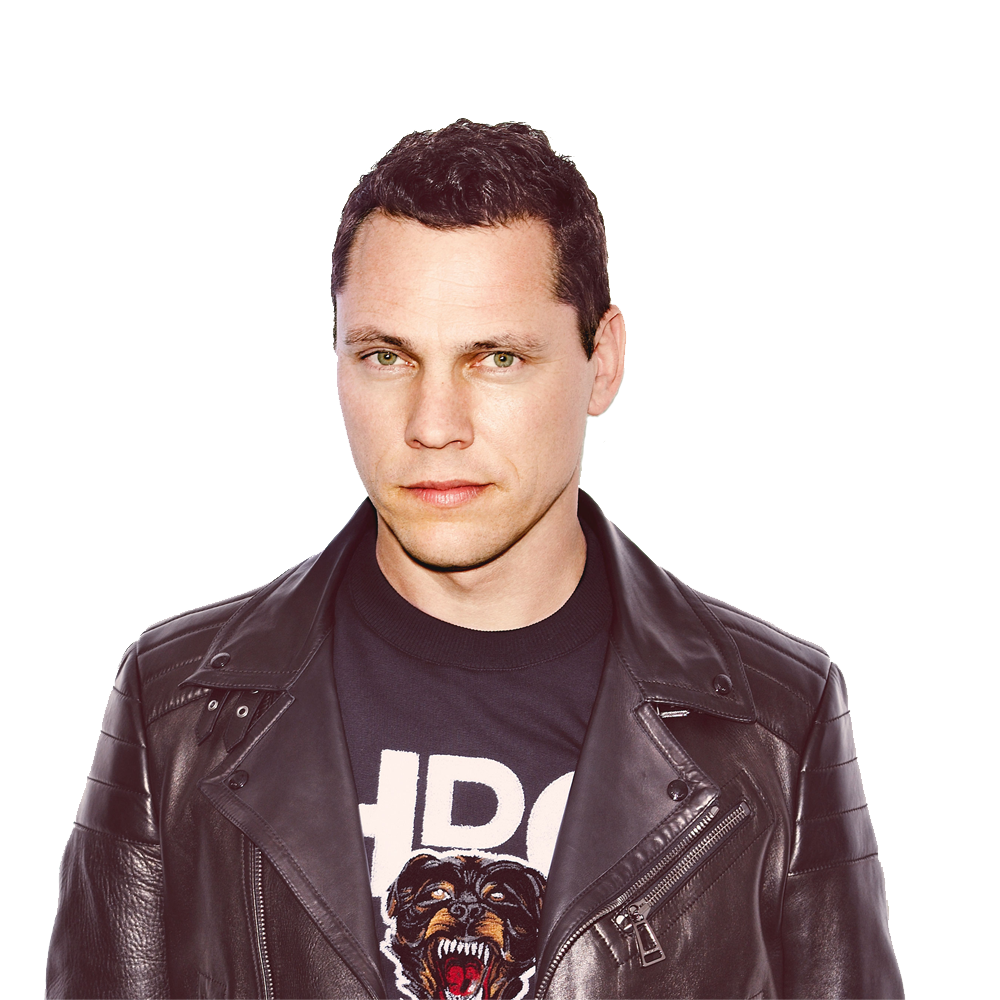
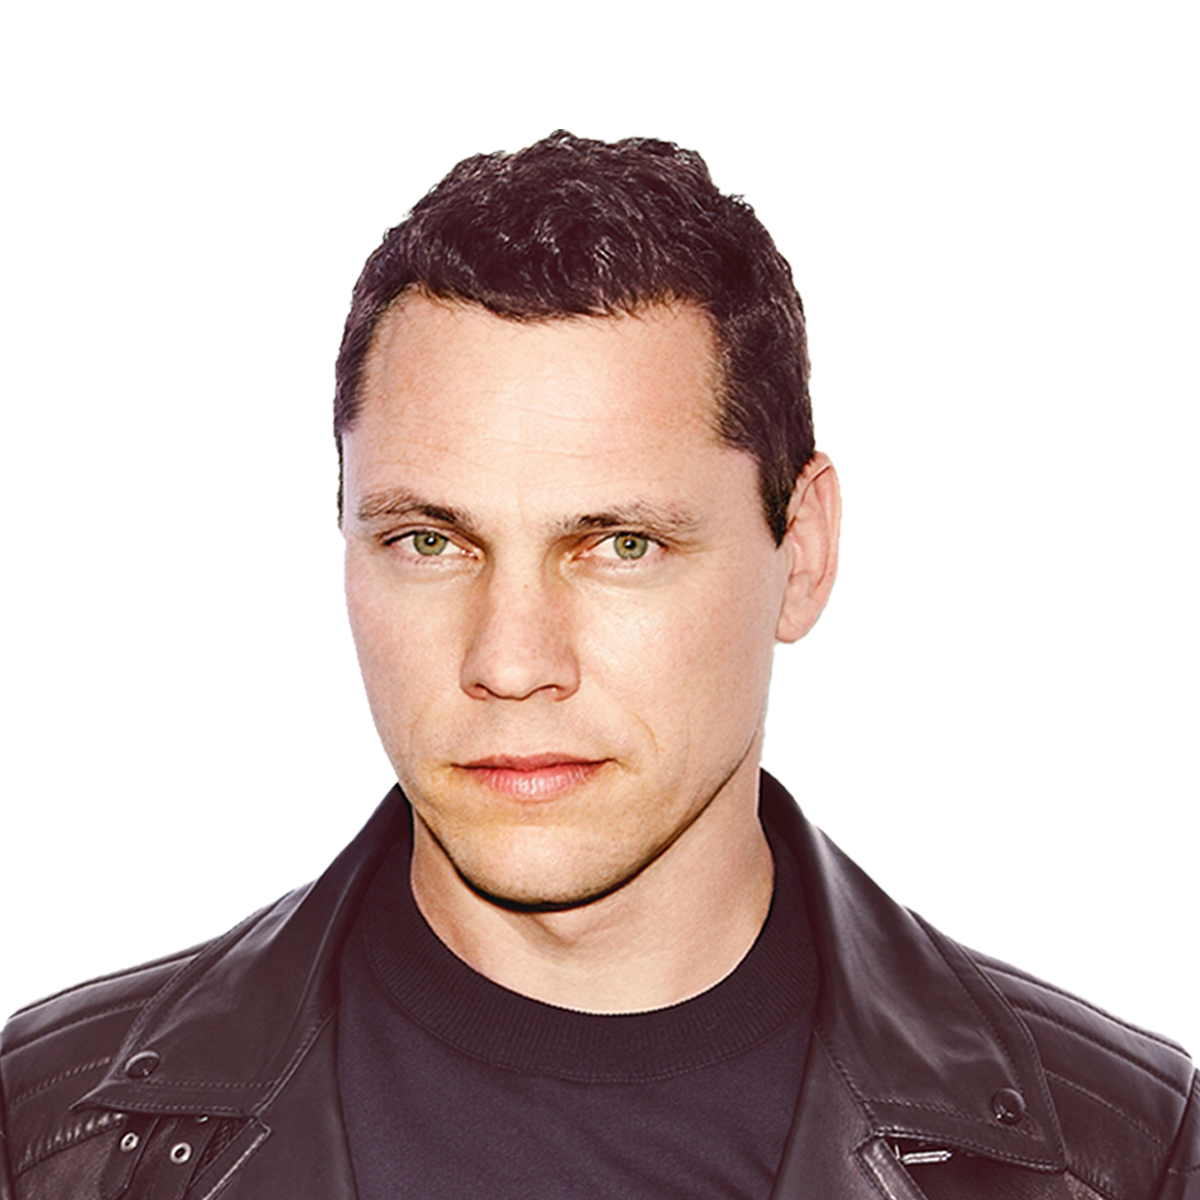
dinamic profile images
artist view dinamic images
artist_detail dinamic images

diff --git a/music_react/src/component/artist_detail/ArtistDetail.js b/music_react/src/component/artist_detail/ArtistDetail.js
@@ -12,6 +12,7 @@ import Table from "react-bootstrap/Table";
 import { BsClockFill, BsCircleFill } from "react-icons/bs";
 
 import AviciiImg from '../../assets/artistPictures/avicii_PNG.png';
+import DefaultImg from '../../assets/artistPictures/default.png';
  
 const Artist_detail = ({artistSongs, get_artist_songs}) => {
     const { artistName } = useParams(); //hook para recoger params
@@ -19,11 +20,20 @@ const Artist_detail = ({artistSongs, get_artist_songs}) => {
     const [totalDuration, setTotalDuration] = useState("0 hr 0 min");//initial state value
     const [backOpacity, setBackOpacity] = useState(0);
     const [backSize, setBackSize] = useState("60%");
-    //const [imgBack, setImageBack] = useState()
+    const [profileIMG, setProfileIMG] = useState();
 
+    function loadImage () {//set img dinamiclly
+        try{
+           const images = require.context('../../assets/artistPictures', true);
+           setProfileIMG(images('./' +artistName.toLowerCase().replace(/\s/g, '_')+'_PNG.png'));
+       }catch{
+           setProfileIMG(DefaultImg);
+       } 
+   };
+    
     useEffect( () => {
         get_artist_songs(artistName);
-        //setImageBack("url("+"../../assets/artistPictures/" + artistName.toLowerCase().replace(/\s/g, '_') + "_PNG.png" + ")");
+        loadImage();
     }, [])
 
     useEffect( () => {
@@ -68,7 +78,7 @@ const Artist_detail = ({artistSongs, get_artist_songs}) => {
     
     return (
         <div className="gradientBack"> 
-            <Row id="imgBackArtistDetail" style={{backgroundSize: backSize, backgroundImage:`url(${(AviciiImg)})`}}>
+            <Row id="imgBackArtistDetail" style={{backgroundSize: backSize, backgroundImage:`url(${(profileIMG)})`}}>
                 <div style={{paddingLeft:"10%", background: backOpacity}}>
                     <h1 style={{paddingTop:'2em'}}>{artistName}</h1>
                     <div>

diff --git a/music_react/src/component/artists/artist_item/ArtistItem.js b/music_react/src/component/artists/artist_item/ArtistItem.js
@@ -1,20 +1,36 @@
-import React, { Component } from 'react';
+import React, { Component, useEffect, useState } from 'react';
 import { connect } from 'react-redux';
 
 import Image from 'react-bootstrap/Image';
 
 import TiestoImg from '../../../assets/artistPictures/tiesto.jpg';
+import DefaultImg from '../../../assets/artistPictures/default.png';
 import backVolumen from '../../../assets/artists/backVolumen.png';
 
 import {Link} from 'react-router-dom';
 
 const Artistitem = (props) => {
+    const [profileIMG, setProfileIMG] = useState();
+
+    useEffect( () => {
+        loadImage();
+
+    }, [])
+
+    function loadImage () {//set img dinamiclly
+         try{
+            const images = require.context('../../../assets/artistPictures', true);
+            setProfileIMG(images('./' +props.nombre.toLowerCase().replace(/\s/g, '_')+'.jpg'));
+        }catch{
+            setProfileIMG(DefaultImg);
+        } 
+      };
 
     return (
         <div className="resizeArtistItem">
             <div className="centerElementsX artistItemImgContainer" 
             style={{backgroundImage:`url(${backVolumen})`}}>
-                <Image src={TiestoImg} alt={props.nombre} />
+                <Image src={profileIMG} alt={props.nombre} />
             </div>
             <Link to={{
                     pathname:'/artist_detail/'+props.nombre, 

diff --git a/music_react/src/component/artists/Artists.js b/music_react/src/component/artists/Artists.js
@@ -9,7 +9,7 @@ import SearchBar from './search_bar/SearchBar';
 import ArtistItem from './artist_item/ArtistItem';
 
 
-const Artists = ({artistsNames, get_artist_names, artistsFilter}) => {
+const Artists = ({artistsNames, get_artist_names, artistsFilter}) => { 
 
     useEffect( () => {
         get_artist_names({artistsFilter});  //llama a Action

diff --git a/music_react/README.md b/music_react/README.md
@@ -12,6 +12,7 @@ ArtistDetail
 
 Home
     - sliders description
+    - link SHM
 
 Footer
     - Progressbar song
@@ -19,7 +20,7 @@ Footer
     - volume slide control
 
 About
-    - buy me a coffe section
+    - buy me a coffe link
 
 Modal
     - style CSS
